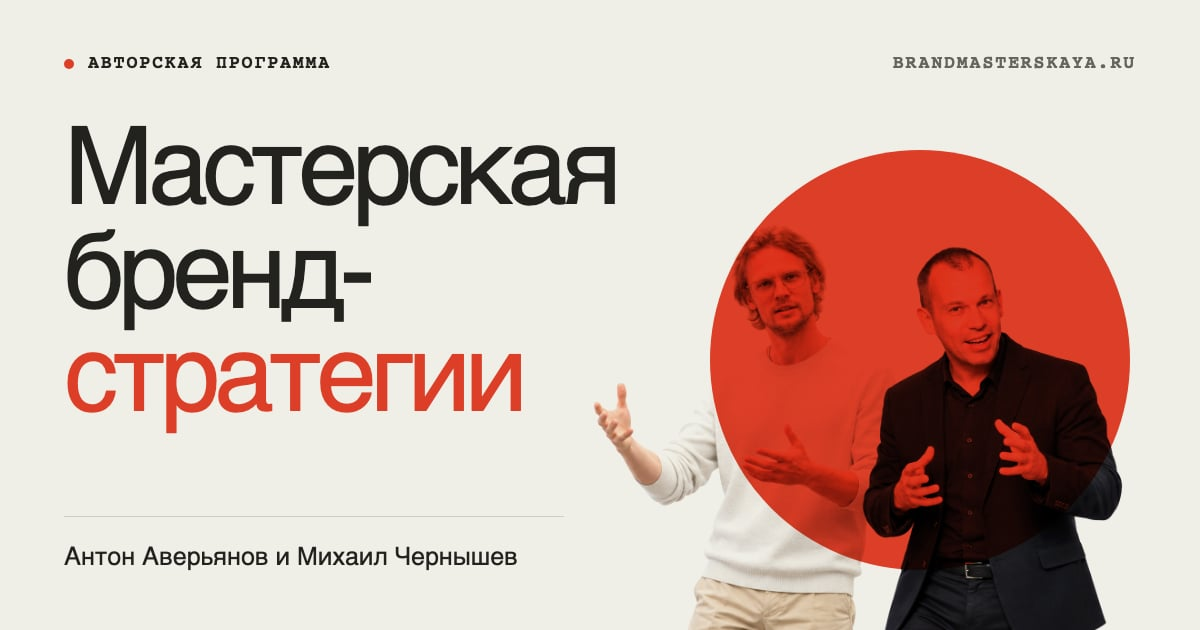
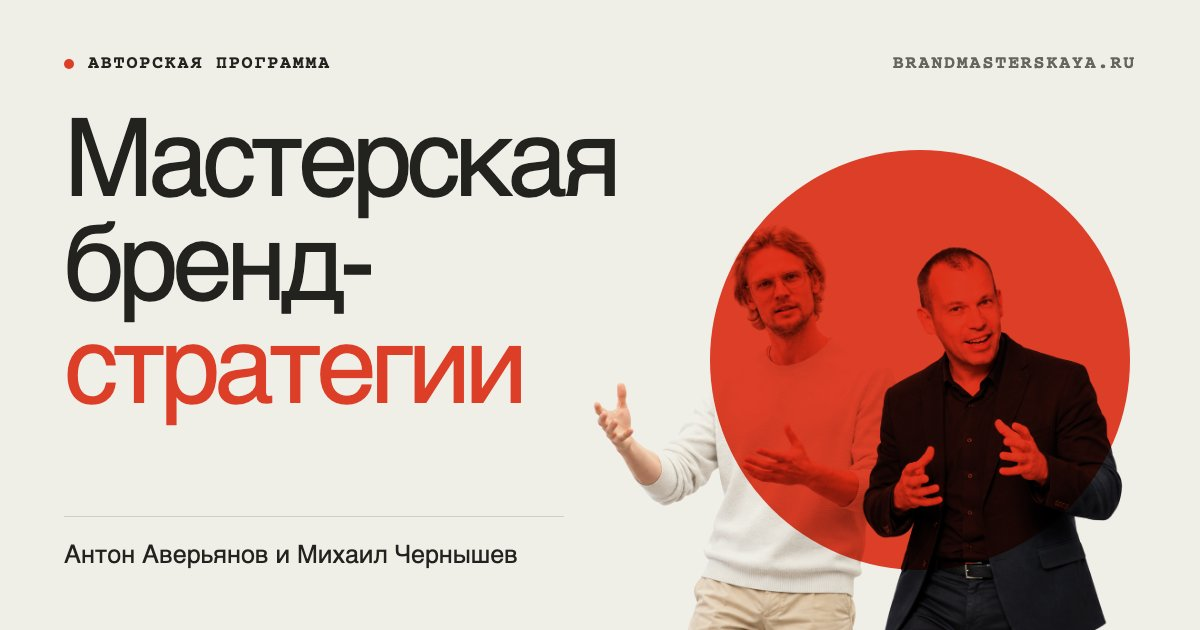
fix(site): make og:image baseline JPEG, bust cache
VK showed the link title but no image. Progressive JPEG from mozjpeg
is a likely cause; the ?v= hash makes VK and Telegram refetch it.

diff --git a/src/index.html b/src/index.html
@@ -20,6 +20,7 @@
       content="Прикладной опыт лидеров рынка в создании и управлении брендами. Авторская программа Антона Аверьянова и Михаила Чернышева."
     />
     <meta property="og:image" content="assets/images/og.jpg" />
+    <meta property="og:image:type" content="image/jpeg" />
     <meta property="og:image:width" content="1200" />
     <meta property="og:image:height" content="630" />
     <meta
